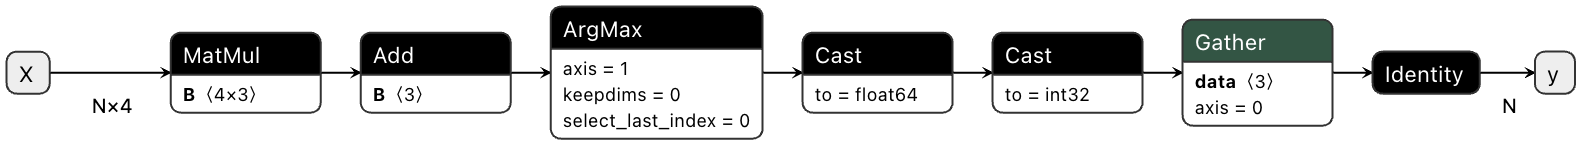
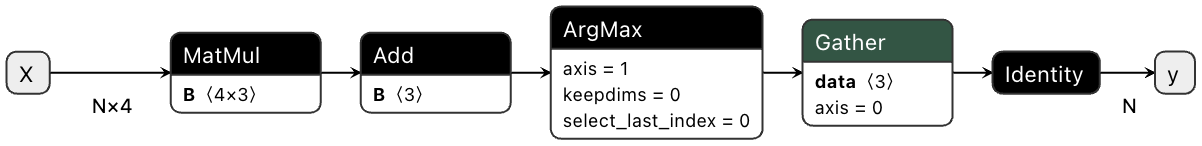
Fix argmax

diff --git a/ndonnx/_core/_numericimpl.py b/ndonnx/_core/_numericimpl.py
@@ -355,43 +355,39 @@ class _NumericOperationsImpl(OperationsBlock):
 
     @validate_core
     def argmax(self, x, axis=None, keepdims=False):
-        if axis is None:
-            reshaped_x = ndx.reshape(x, [-1])._core()
-            if keepdims:
-                return from_corearray(
-                    opx.reshape(
-                        opx.arg_max(reshaped_x, axis=0, keepdims=False),
-                        opx.const([1 for x in range(x.ndim)], dtype=dtypes.int64),
-                    )
-                )
-            else:
-                return from_corearray(
-                    opx.reshape(
-                        opx.arg_max(reshaped_x, axis=0, keepdims=False),
-                        opx.const([], dtype=dtypes.int64),
-                    )
-                )
-        return _via_i64_f64(lambda x: opx.arg_max(x, axis=axis, keepdims=keepdims), [x])
+        out = via_upcast(
+            lambda x: opx.arg_max(
+                x,
+                axis=axis or 0,
+                keepdims=int(keepdims),
+            ),
+            [ndx.reshape(x, [-1]) if axis is None else x],
+            cast_return=False,
+            int_dtype=ndx.int32,
+            float_dtype=ndx.float64,
+        )
+
+        while keepdims and out.ndim < x.ndim:
+            out = ndx.expand_dims(out, axis=0)
+        return out
 
     @validate_core
     def argmin(self, x, axis=None, keepdims=False):
-        if axis is None:
-            reshaped_x = ndx.reshape(x, [-1])._core()
-            if keepdims:
-                return from_corearray(
-                    opx.reshape(
-                        opx.arg_min(reshaped_x, axis=0, keepdims=False),
-                        opx.const([1 for x in range(x.ndim)], dtype=dtypes.int64),
-                    )
-                )
-            else:
-                return from_corearray(
-                    opx.reshape(
-                        opx.arg_min(reshaped_x, axis=0, keepdims=False),
-                        opx.const([], dtype=dtypes.int64),
-                    )
-                )
-        return _via_i64_f64(lambda x: opx.arg_min(x, axis=axis, keepdims=keepdims), [x])
+        out = via_upcast(
+            lambda x: opx.arg_min(
+                x,
+                axis=axis or 0,
+                keepdims=int(keepdims),
+            ),
+            [ndx.reshape(x, [-1]) if axis is None else x],
+            cast_return=False,
+            int_dtype=ndx.int32,
+            float_dtype=ndx.float64,
+        )
+
+        while keepdims and out.ndim < x.ndim:
+            out = ndx.expand_dims(out, axis=0)
+        return out
 
     @validate_core
     def nonzero(self, x) -> tuple[Array, ...]:

diff --git a/tests/test_core.py b/tests/test_core.py
@@ -4,6 +4,7 @@
 from __future__ import annotations
 
 import re
+import warnings
 
 import numpy as np
 import pytest
@@ -992,3 +993,48 @@ def test_no_unsafe_cumulative_sum_cast():
     ):
         a = ndx.asarray([1, 2, 3], ndx.int32)
         ndx.cumulative_sum(a, dtype=ndx.uint64)
+
+
+@pytest.mark.parametrize("keepdims", [True, False])
+@pytest.mark.parametrize(
+    "func, x",
+    [
+        (np.argmax, np.array([1, 2, 3, 4, 5], dtype=np.int32)),
+        (np.argmax, np.array([[1, 2, 3], [4, 5, 6]], dtype=np.int32)),
+        (np.argmax, np.array([1, 2, 3, 4, 5], dtype=np.int8)),
+        (np.argmax, np.array([1, 2, 3, 4, 5], dtype=np.float32)),
+        (np.argmax, np.array([1, 2, 3, 4, 5], dtype=np.float64)),
+        (np.argmin, np.array([1, 2, 3, 4, 5], dtype=np.float32)),
+        (np.argmin, np.array([[-11, 2, 3], [4, 5, -6]], dtype=np.int32)),
+        (np.argmin, np.array([1, 2, 3, 4, 5], dtype=np.float64)),
+        (np.argmin, np.array([1, 2, 3, 4, 5], dtype=np.int16)),
+    ],
+)
+def test_argmaxmin(func, x, keepdims):
+    np_result = func(x, keepdims=keepdims)
+    ndx_result = getattr(ndx, func.__name__)(
+        ndx.asarray(x), keepdims=keepdims
+    ).to_numpy()
+    assert_array_equal(np_result, ndx_result)
+
+
+# Pending ORT 1.19 conda-forge release before this becomes supported:
+# https://github.com/conda-forge/onnxruntime-feedstock/pull/128
+@pytest.mark.parametrize(
+    "func, x",
+    [
+        (np.argmax, np.array([1, 2, 3, 4, 5], dtype=np.int64)),
+        (np.argmin, np.array([1, 2, 3, 4, 5], dtype=np.int64)),
+    ],
+)
+def test_argmaxmin_unsupported_kernels(func, x):
+    import onnxruntime as ort
+
+    if ort.__version__.startswith("19"):
+        warnings.warn(
+            "Please remove this test and update `argmax` and `argmin` to reflect expanded kernel support.",
+            Warning,
+        )
+
+    with pytest.raises(TypeError):
+        getattr(ndx, func.__name__)(ndx.asarray(x))

diff --git a/ndonnx/_funcs.py b/ndonnx/_funcs.py
@@ -670,7 +670,7 @@ def argmax(x, axis=None, keepdims=False):
 
 def argmin(x, axis=None, keepdims=False):
     if (
-        out := x.dtype._ops.argmax(x, axis=axis, keepdims=keepdims)
+        out := x.dtype._ops.argmin(x, axis=axis, keepdims=keepdims)
     ) is not NotImplemented:
         return out
     raise UnsupportedOperationError(f"Unsupported operand type for argmin: '{x.dtype}'")

diff --git a/CHANGELOG.rst b/CHANGELOG.rst
@@ -7,6 +7,12 @@
 Changelog
 =========
 
+0.9.3 (unreleased)
+------------------
+
+- Reduced the number of unnecessary casts in :func:`ndonnx.argmax` and :func:`ndonnx.argmin`.
+
+
 0.9.2 (2024-10-03)
 ------------------
 
